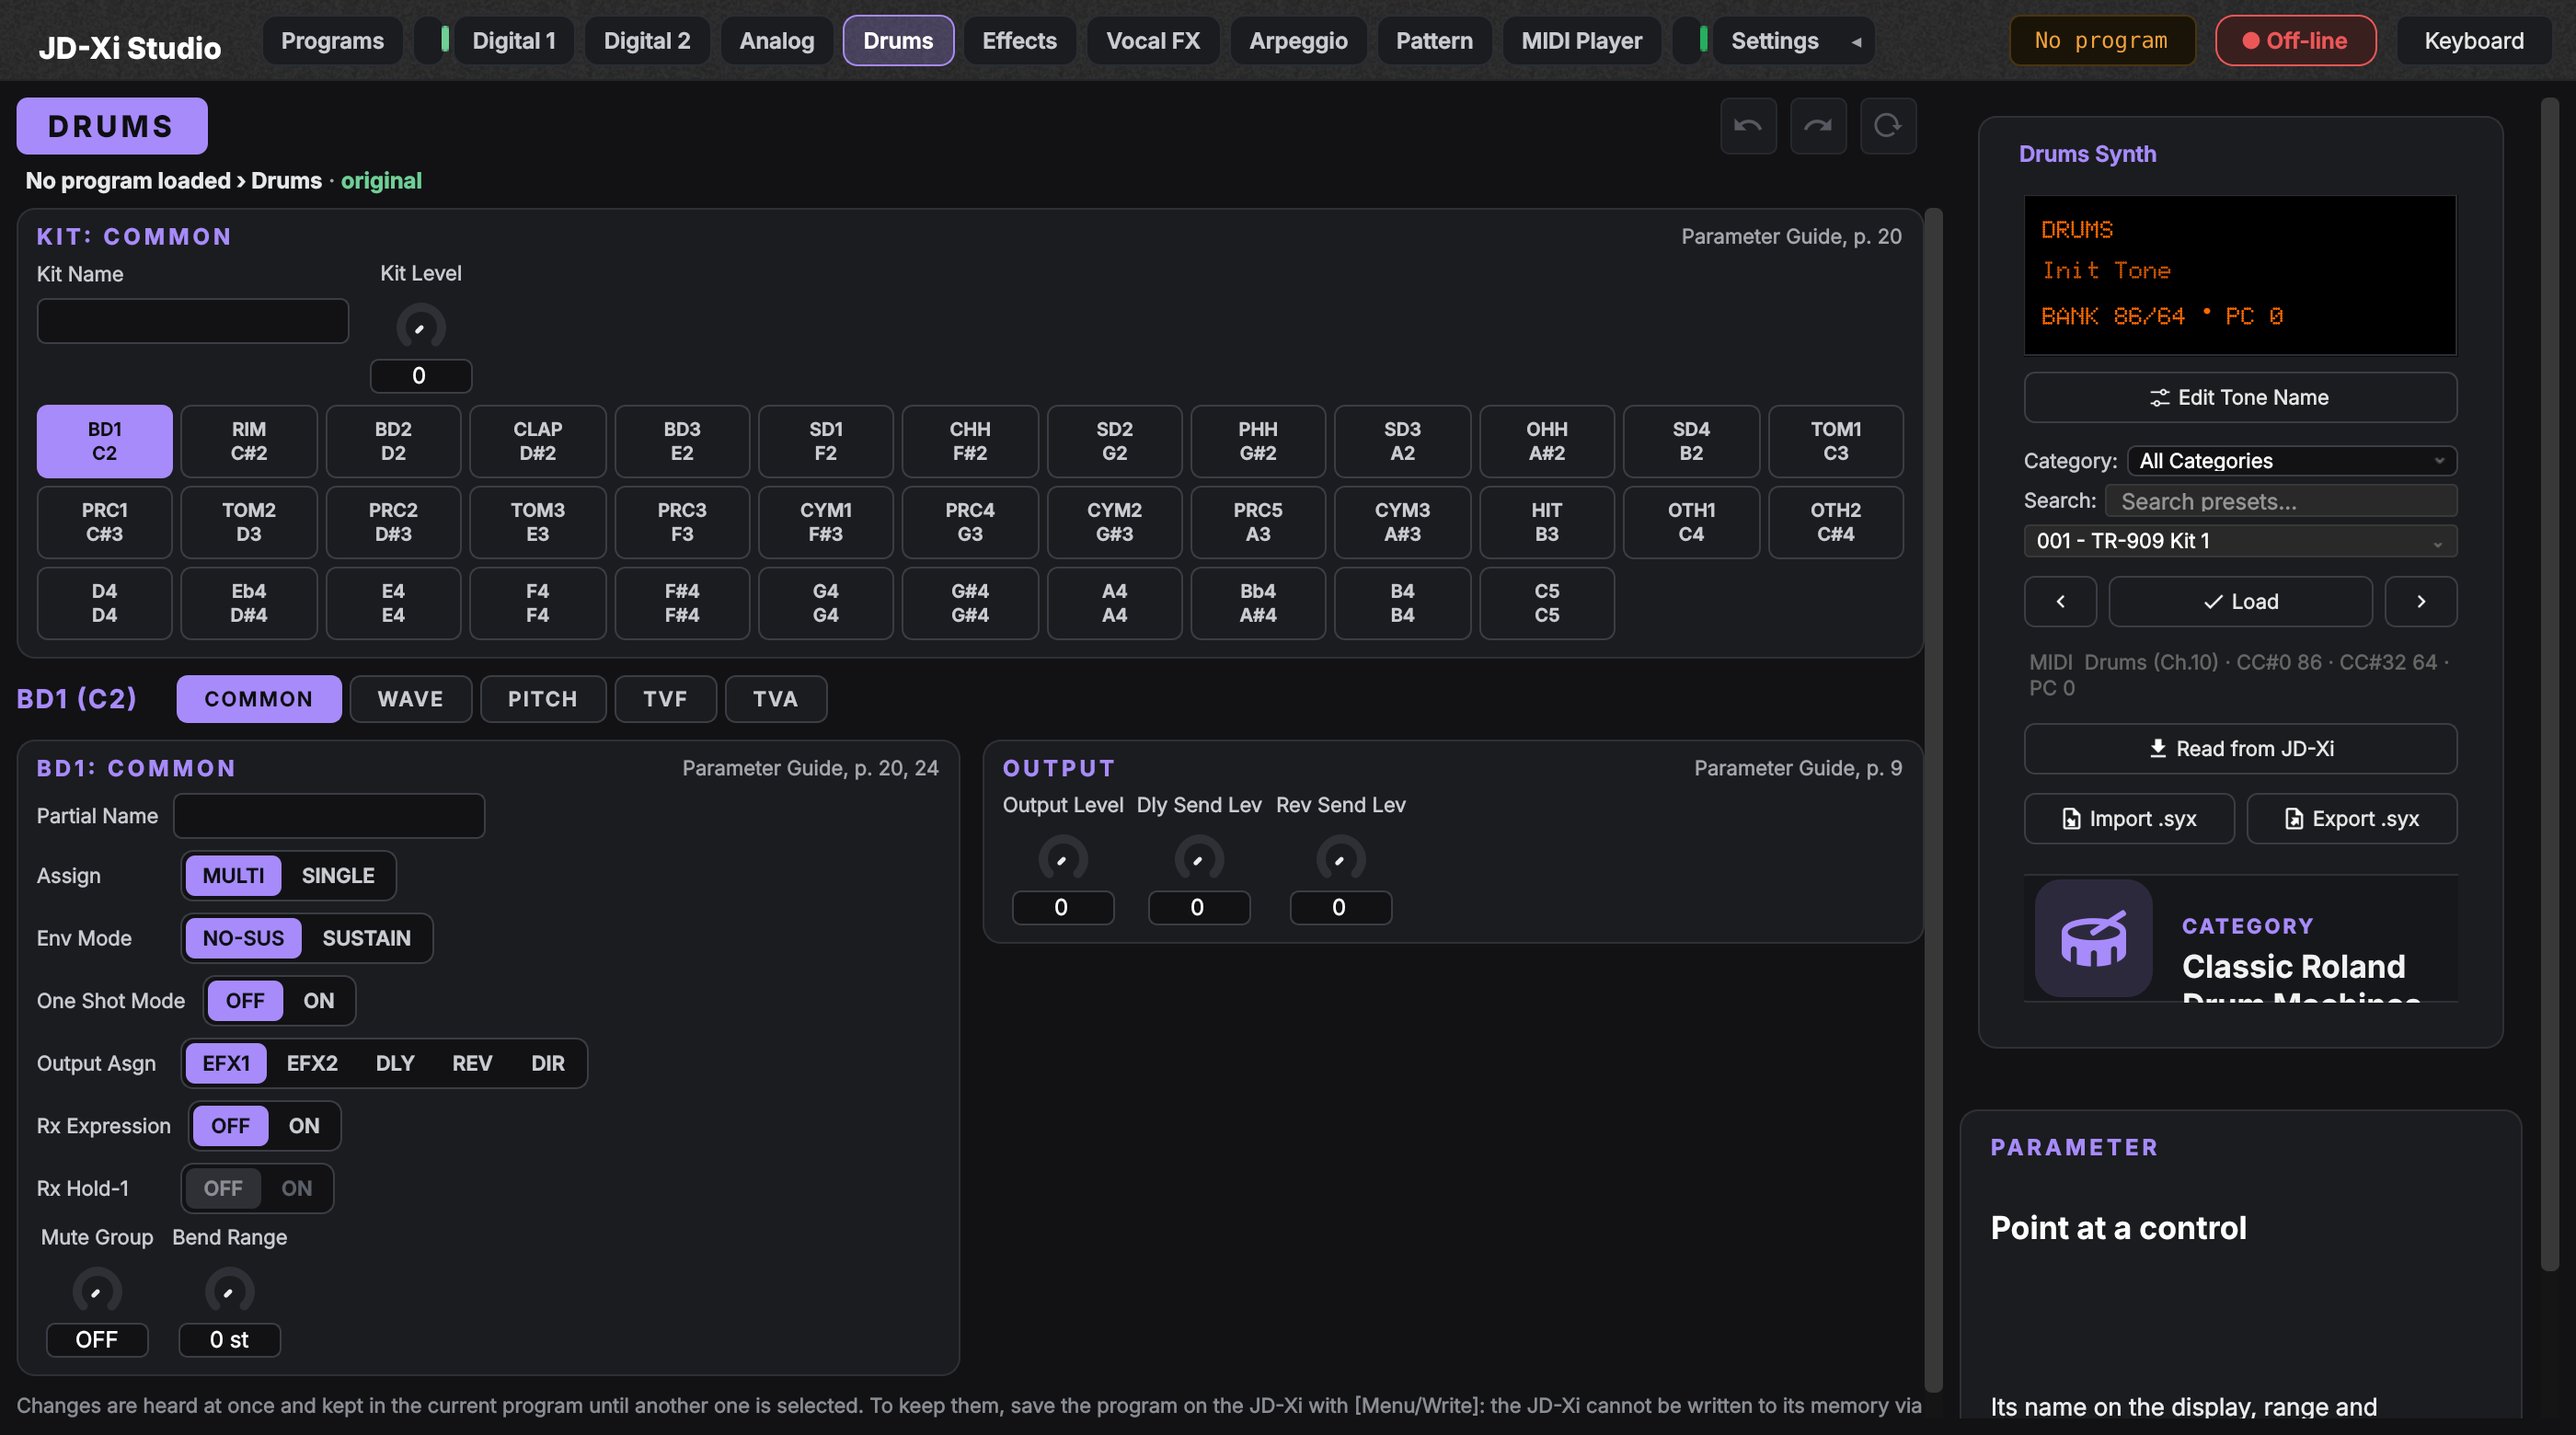
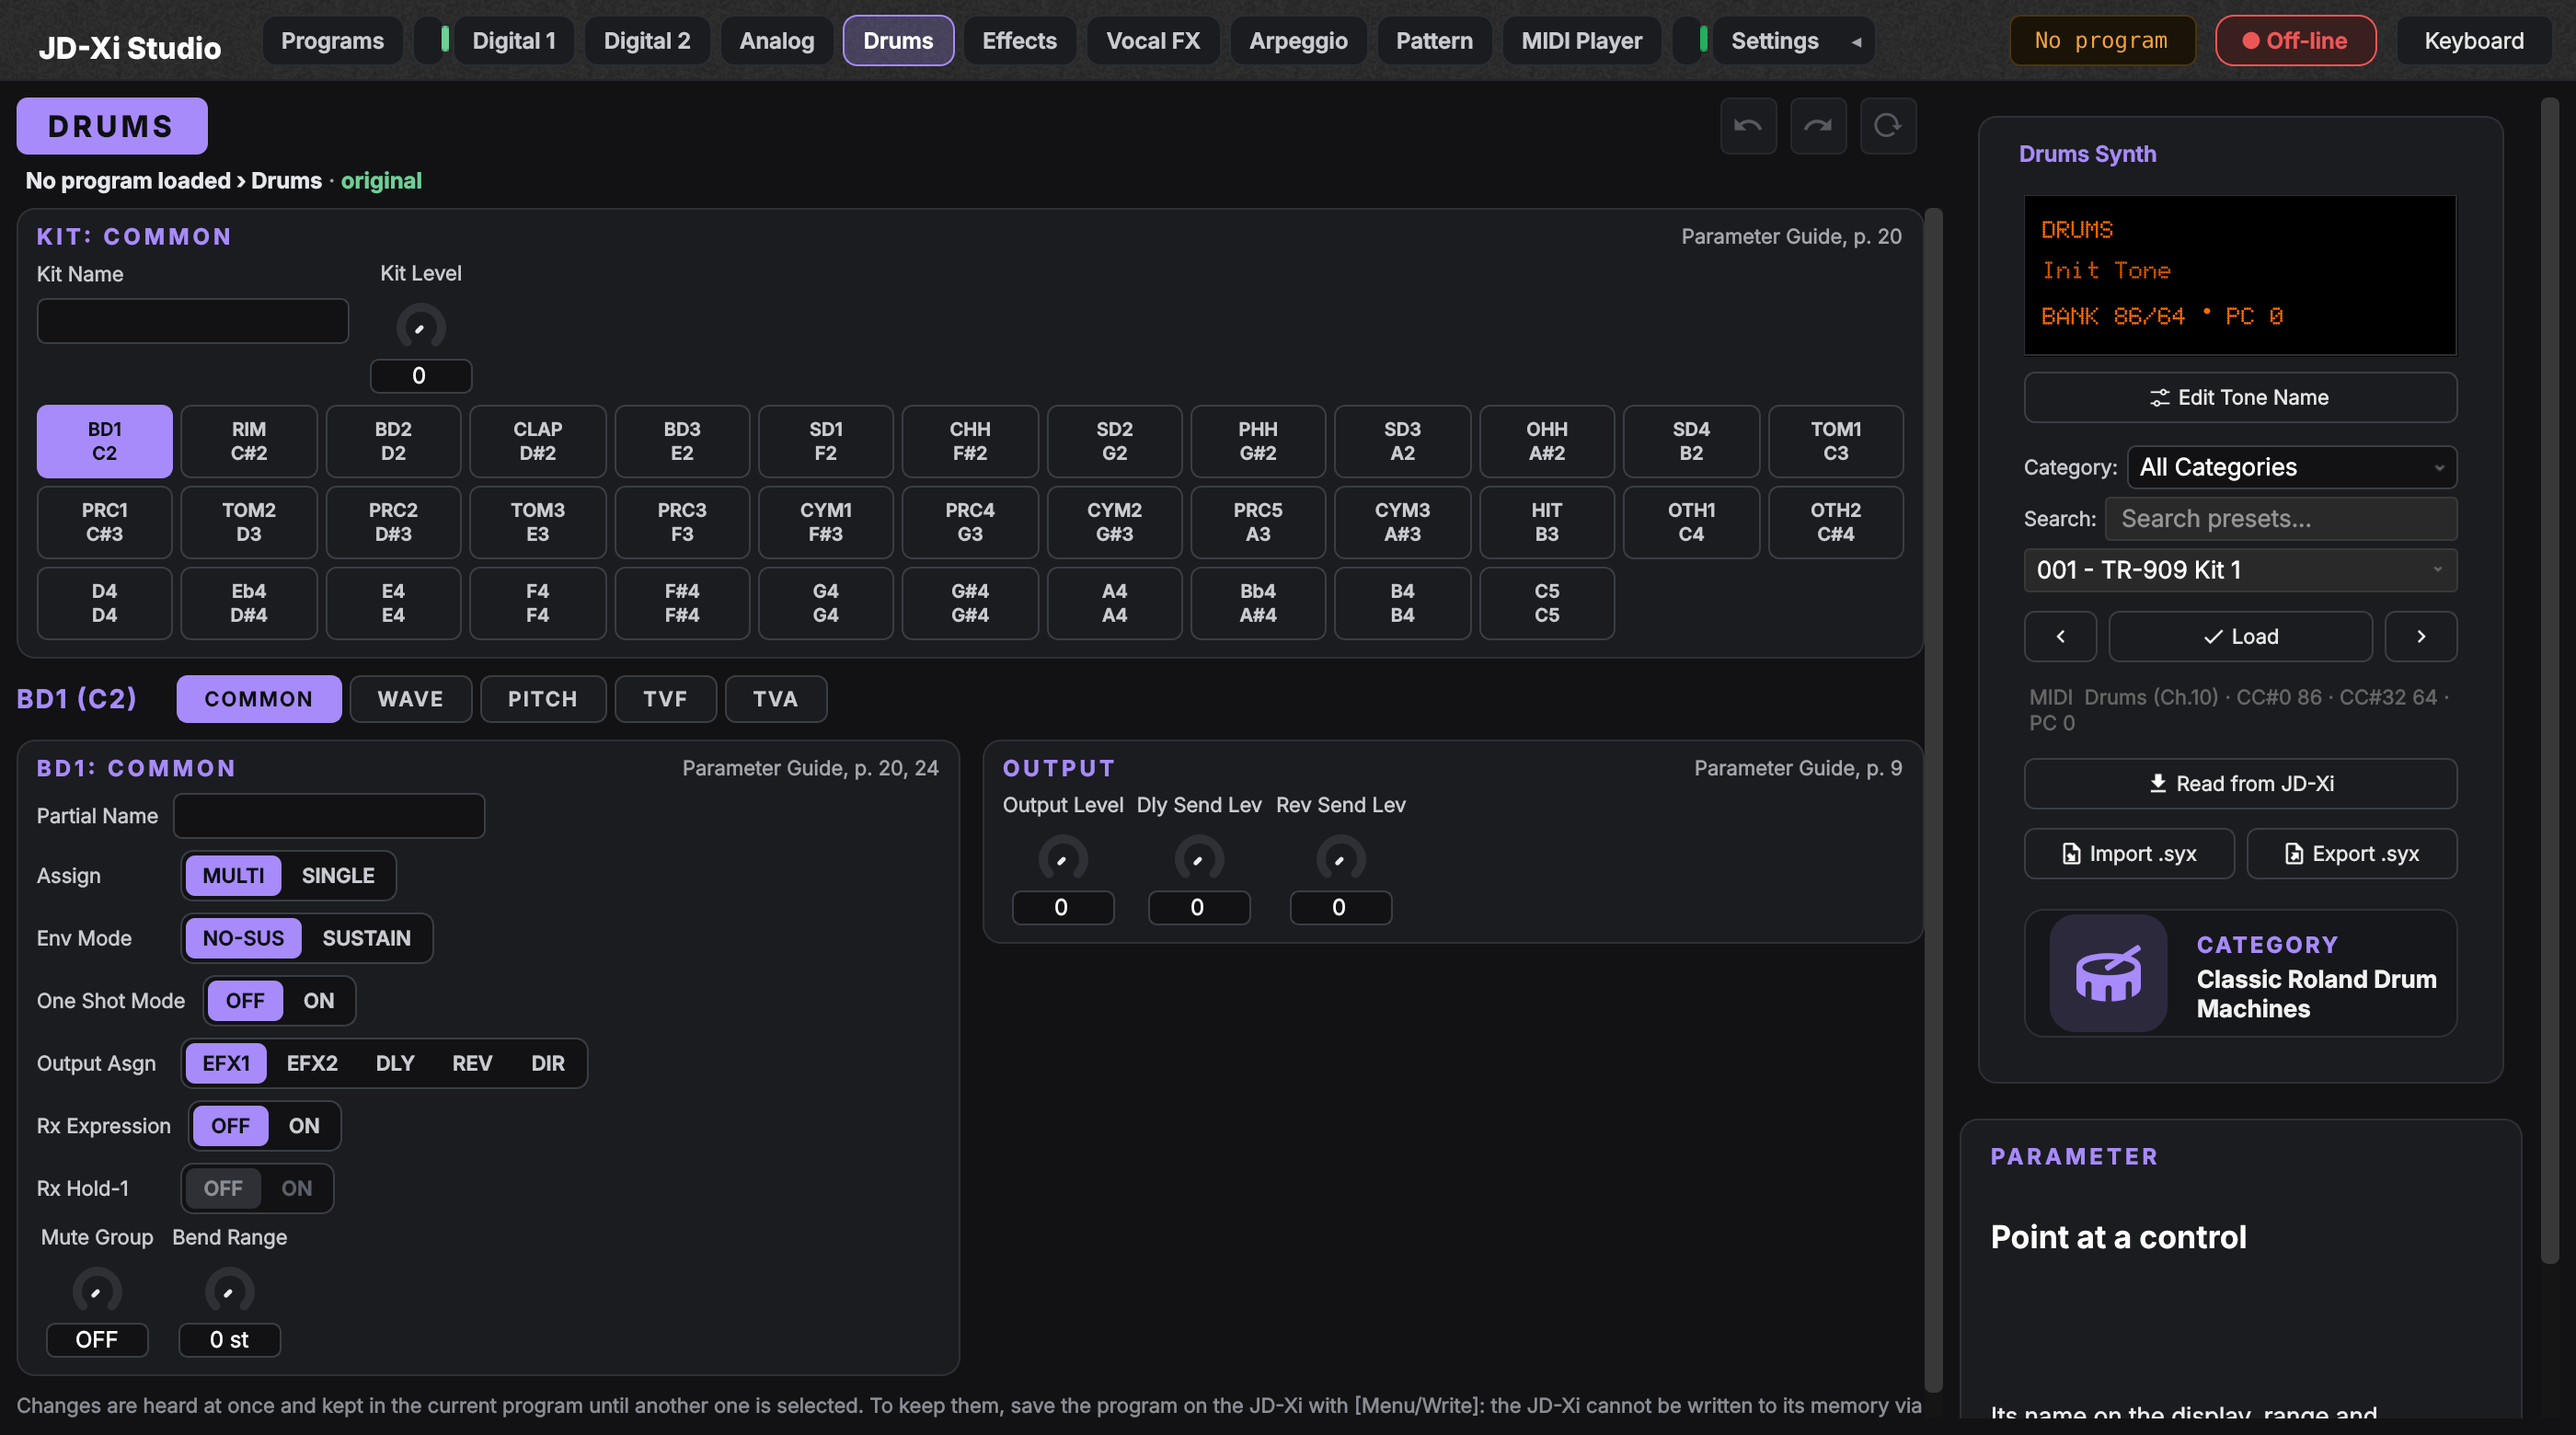
Release 1.1.0
- Version 1.1.0 (project.py, the Windows installer script).
- CHANGELOG: the 1.1.0 section with a summary; the text size and LCD entries.
- What's New in 1.1.0; Installation: where to set the text size.
- README: the partial tools, A/B take, the text size.
- Hardware test plan: version 1.1.0, text size (12.4), maximised window (12.5).
- Screenshots taken again (the partial tools, the preset card).
- text_size is no longer a proof of concept.

Claude-Session: https://claude.ai/code/session_01FkUcAB82dzxH97bL4dyfe5

Changed region(s): [[0.7768, 0.3077, 0.9632, 0.7385], [0.7768, 0.7692, 0.87, 0.8923], [0.7768, 0.9538, 0.9011, 1.0]]

diff --git a/jdxi_editor/project.py b/jdxi_editor/project.py
@@ -1,6 +1,6 @@
 """Project metadata and version information for JD-Xi Studio."""
 
-__version__ = "1.0.0"  # PEP 440; the release tag is v1.0.0
+__version__ = "1.1.0"  # PEP 440; the release tag is v1.1.0
 # An independent edition of JDXI-Editor by Mark Brooks, with a name of its own
 # everywhere (interface, installer, settings, user folder), so the two can be
 # installed side by side and are never confused

diff --git a/jdxi_editor/ui/text_size.py b/jdxi_editor/ui/text_size.py
@@ -1,5 +1,5 @@
 """
-Readable text (proof of concept): a minimum size, more contrast for the grey
+Readable text: a minimum size, more contrast for the grey
 text, and Preferences › Text size (Normal, Large, Larger) for the text only.
 
 The app's style sheets write their sizes by hand (``font-size: 11px``), about

diff --git a/README.md b/README.md
@@ -26,7 +26,8 @@ computer screen instead of the JD-Xi's menus.
 - **Keyboard window** laid out as the instrument: part select, program and tone, octave, arpeggio,
   the panel's sliders and the 37 keys; keep it in front of the other windows with the pin.
 - **Digital Synth 1 and 2**: every SuperNATURAL parameter, the three partials with drawn waveforms,
-  filter curves, envelopes and LFOs.
+  filter curves, envelopes and LFOs; link the partials, copy, paste and swap them (also between
+  Digital 1 and 2), randomize, and browse the 160 PCM waves by family, trying each by ear.
 - **Analog Synth**: all 46 parameters on one page, the filter curve and envelopes to drag.
 - **Drum Kit**: the 37 drum partials as pads, each with its four waves, pitch, filter and amplifier
   envelopes.
@@ -39,7 +40,8 @@ computer screen instead of the JD-Xi's menus.
   playlists; **Save on the JD-Xi**, guided (name, slot, WRITE) and checked by reading the slot back.
 - **New sound** in the Digital and Analog editors: from scratch (Init, one Undo), from a preset or
   from a recipe; a **«?»** on each section says what it changes, how the sound changes, an example.
-- **A/B compare** (Digital 1, Digital 2, Analog): two photos of a tone, recalled and checked.
+- **A/B compare** (Digital 1, Digital 2, Analog): two photos of a tone, recalled and checked, or
+  taken in one section at a time.
 - **Where you are**: a line under each editor says program › part › tone, where the sound came from
   and whether it is original, modified and temporary, saved to a file or saved in the JD-Xi.
 - **Pattern sequencer**: four parts × 16 steps, measures, copy and paste, MIDI files, USB recording.
@@ -53,7 +55,8 @@ computer screen instead of the JD-Xi's menus.
 - **Settings**: the JD-Xi's system settings, the MIDI connection, files and tools.
 - **Undo, Redo and Reload** in every editor (Ctrl+Z / Ctrl+Y, a drag is one step), a pencil on
   the tab of a modified editor and a question before unsaved changes are lost to a preset, a program, a patch or closing.
-- **From 1080p to 4K**: a compact layout on low screens (1080p at 125%), the text the same size.
+- **From 1080p to 4K**: a compact layout on low screens (1080p at 125%), and a
+  larger text size in Preferences when the text is too small.
 - **Log viewer** with a tab for warnings and errors; the logs are kept two weeks.
 - **Follows the JD-Xi**: it reads the instrument at start and every two seconds, so a tone or an
   octave chosen on the JD-Xi shows in the window, the panel sliders show the tone's values, the

diff --git a/doc/hardware-test-plan.md b/doc/hardware-test-plan.md
@@ -92,7 +92,7 @@ al tuo resoconto.
 
 | | Fai | Deve succedere |
 |---|---|---|
-| 2.1 | Avvia JD-Xi Studio | Splash con il logo, la versione (es. «Versione 1.0.0») uguale a quella installata; nessun messaggio d'errore |
+| 2.1 | Avvia JD-Xi Studio | Splash con il logo, la versione (es. «Versione 1.1.0») uguale a quella installata; nessun messaggio d'errore |
 | 2.2 | Finestra MIDI all'avvio (o JD-Xi › Configurazione MIDI) | Ingresso e uscita **JD-Xi** già scelti; la finestra è davanti alle altre, anche con la tastiera fissata in primo piano |
 | 2.3 | Guarda la barra in alto a destra dell'editor | «JD-Xi collegato» in verde; il nome del programma corrente del JD-Xi nel display |
 | 2.4 | Strumenti › Visualizzatore log | Il log di questa sessione (con data e ora nel nome); scheda *Avvisi ed errori* vuota o quasi; **nessuna** riga «MIDI output port is not open» o «No reply to RQ1» |
@@ -293,6 +293,8 @@ Ripeti 4.1, 4.5, 4.7, 6.1 e 8.1 su ogni schermo che usi (es. 1080p al 125%, 2496
 | 12.1 | Nessuno scorrimento orizzontale in nessuna scheda |
 | 12.2 | Testo leggibile, manopole usabili col mouse (sullo schermo basso sono più piccole) |
 | 12.3 | Scorrimento verticale al massimo in Digital, Analog e Pattern, e breve |
+| 12.4 | Preferenze › Dimensione del testo: Grande, poi Più grande (riavvia ogni volta) | Il testo cresce, manopole e grafici no; nel pannello dei preset menu, ricerca e scheda della categoria non sono tagliati; i display LCD crescono con il testo; nessuno scorrimento orizzontale |
+| 12.5 | Massimizza la finestra principale | Lo strumento resta della sua misura, al centro, con un corpo dagli angoli arrotondati e un bordo su un fondo più scuro; tornando alla misura normale il bordo sparisce |
 
 ---
 
@@ -301,7 +303,7 @@ Ripeti 4.1, 4.5, 4.7, 6.1 e 8.1 su ogni schermo che usi (es. 1080p al 125%, 2496
 Copia e compila (una riga per passo eseguito):
 
 ```
-Versione: 1.0.0         Data:            Schermo: 1920x1080 125%   Firmware JD-Xi:
+Versione: 1.1.0         Data:            Schermo: 1920x1080 125%   Firmware JD-Xi:
 Script: OK __ / KO __ / saltati __        (allega il file .md)
 
 | Passo | Esito | Note |

diff --git a/doc/whats-new.rst b/doc/whats-new.rst
@@ -1,3 +1,39 @@
+What's New in 1.1.0
+===================
+
+Deeper editing of the SuperNATURAL synth tones, and text that is easier to read.
+
+Digital Synth
+-------------
+
+* **Link 1·2·3**: a change to the partial shown goes to the other partials that are on, in one
+  Undo step. The oscillator (waveform, PCM wave, pitch, detune) stays each partial's own.
+* **Partial ▾**: copy, paste and swap a partial or one section of it (Oscillator, Filter,
+  Amplifier, LFO, Modulation LFO), also between Digital 1 and Digital 2.
+* **Randomize** a section, a partial or the whole tone by a little, a medium amount or much; the
+  tone stays playable and audible, and each press is one Undo step.
+* **PCM waves by family**: Wave Number opens the 160 waves in eleven families, with a search,
+  ★ favourites and *Try*, which plays a note with each wave so they can be compared by ear.
+* The filter and amplifier envelopes show the **Envelope Loop** (FREE-RUN, TEMPO-SYNC).
+* The partial switches (P1 ON, P1 SEL…) sit next to their own switch.
+
+See :doc:`digital_synth` (*Working with the Three Partials*).
+
+A/B compare
+-----------
+
+* **Take from a photo**: the sections where a photo differs from the current sound, to bring in
+  one by one (Digital and Analog).
+
+Reading
+-------
+
+* **File › Preferences › Text size**: Normal, Large (112%) or Larger (125%), from the next start.
+  The text grows, the knobs and graphs keep their size. Text is never smaller than 12 px, and the
+  grey secondary text is lighter.
+* The LCD displays (tone, program, file) and the preset card follow the text size.
+* Maximised, the main window shows the instrument as a body on a darker surface, with an edge.
+
 What's New in 1.0.0
 ===================
 

diff --git a/CHANGELOG.md b/CHANGELOG.md
@@ -4,12 +4,24 @@ All notable changes to JD-Xi Studio (and, before 1.0, to this fork of JDXI-Edito
 
 # [Unreleased]
 
+# [1.1.0] - 2026-11-27
+
+Deeper editing of the SuperNATURAL synth tones (link, copy and randomize the partials, the PCM
+waves by family, take sections from an A/B photo) and text that is easier to read (a text size
+in Preferences, larger LCD displays).
+
 ### Changes
+- **Preferences › Text size**: Normal, Large (112%) or Larger (125%), from the next start. The
+  text grows, the knobs, graphs and spacing keep their size; text is never smaller than 12 px and
+  the grey secondary text is lighter. The preset card follows: its lists and search field grow
+  with the text, the category card fits its place, Import / Export drop «.syx» when the text is
+  larger.
+- The LCD displays (tone, program, MIDI file, pattern) draw their text at the chosen size.
 - Main window: maximised, the instrument is drawn as a body on a darker surface (rounded
   corners, a lit top edge, a soft shadow); before, its edges faded into the background.
 - Digital Synth: under each PARTIAL button, «P1 ON» and «P1 SEL» sit right against their
   switches, with a wider gap between the two (they read as the labels of the switch on their left).
-- **Digital Synth: the three partials together.** *Link partials* makes a change to the partial
+- **Digital Synth: the three partials together.** *Link 1·2·3* makes a change to the partial
   shown on the other partials that are on (the oscillator stays each one's own), in one Undo step.
   *Partial ▾* copies, pastes and swaps a partial or one section of it (Oscillator, Filter,
   Amplifier, LFO, Modulation LFO), also between Digital 1 and Digital 2.

diff --git a/doc/installation.rst b/doc/installation.rst
@@ -102,6 +102,8 @@ The simplest way to install JD-Xi Studio is using our pre-built packages. These 
      MIDI configuration dialog. Without a JD-Xi the editor opens anyway (Off-line, with a badge in every window)
    - The interface language is chosen in File › Preferences › Interface language
      (English, Italiano, or the system's); it applies at the next start
+   - Text too small on a large or high-resolution screen? File › Preferences › Text size:
+     Normal, Large (112%) or Larger (125%), from the next start
 
 **Linux Installation**
    Download ``jd-xi-studio_<version>_amd64.deb`` from the releases page and install it
